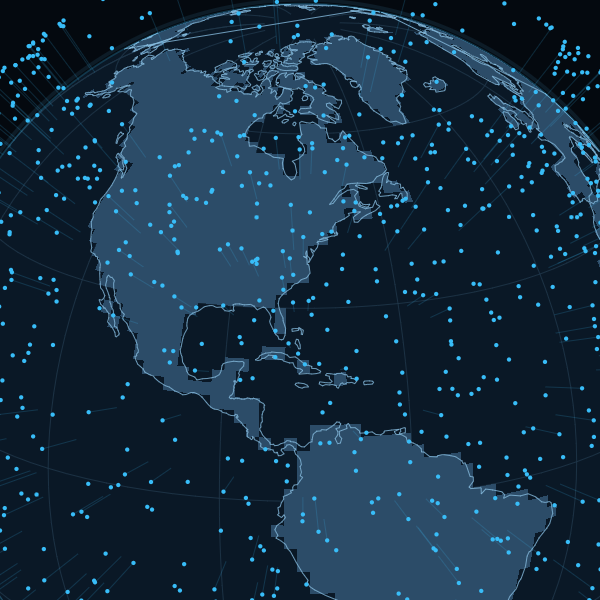
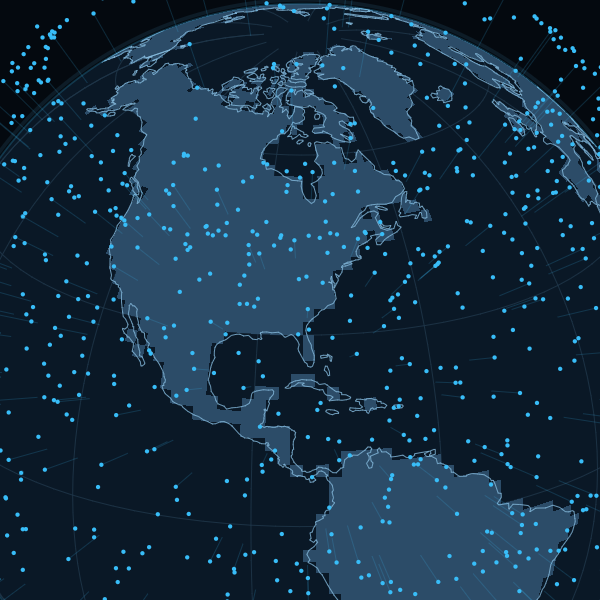
Keep the coast stroke open and save Skia state around the land mesh
Two things the mesh change left behind. Each visible run of coastline was closed
before being stroked, so every run drew a straight line from the end of the coast
back to its start: the stray lines across the map. The run is now stroked open,
since the fill comes from the land mesh rather than from that path.

The mesh drew straight onto the native Skia canvas without saving it, which left
the canvas state changed for everything painted afterwards - the panels and their
glyphs came out blank. The draw is now wrapped in save/restoreToCount.

Checked over a full rotation: land filled in every frame (49k-54k land-coloured
pixels), lattice score at the 0.001 clean baseline, panel glyphs back.

🤖 Generated with Codebuff

diff --git a/desktop/src/main/java/dev/skyward/rf/desktop/ui/MapView.kt b/desktop/src/main/java/dev/skyward/rf/desktop/ui/MapView.kt
@@ -619,6 +619,9 @@ private fun DrawScope.drawGlobeSphere(
             }
             fun flush() {
                 if (run.size >= 6) {
+                    // Left open on purpose: closing it would stroke a straight line from the end
+                    // of the coastline back to its start, which is the stray line across the map.
+                    // The fill comes from the land mesh, not from this path.
                     val path = Path()
                     path.moveTo(run[0], run[1])
                     var i = 2
@@ -626,7 +629,6 @@ private fun DrawScope.drawGlobeSphere(
                         path.lineTo(run[i], run[i + 1])
                         i += 2
                     }
-                    path.close()
                     coast.addPath(path)
                 }
                 run.clear()
@@ -801,14 +803,23 @@ private fun DrawScope.drawLandMesh(
             color = argb
             isAntiAlias = false
         }
-        canvas.nativeCanvas.drawVertices(
-            org.jetbrains.skia.VertexMode.TRIANGLES,
-            positions,
-            null,
-            null,
-            indices.copyOf(used),
-            org.jetbrains.skia.BlendMode.SRC_OVER,
-            paint,
-        )
+        // Drawing straight onto the Skia canvas leaves its state changed for whatever is painted
+        // next, and the panels and their glyphs came out blank because of it. Save and restore it
+        // so this draw stays a closed box.
+        val native = canvas.nativeCanvas
+        val save = native.save()
+        try {
+            native.drawVertices(
+                org.jetbrains.skia.VertexMode.TRIANGLES,
+                positions,
+                null,
+                null,
+                indices.copyOf(used),
+                org.jetbrains.skia.BlendMode.SRC_OVER,
+                paint,
+            )
+        } finally {
+            native.restoreToCount(save)
+        }
     }
 }
